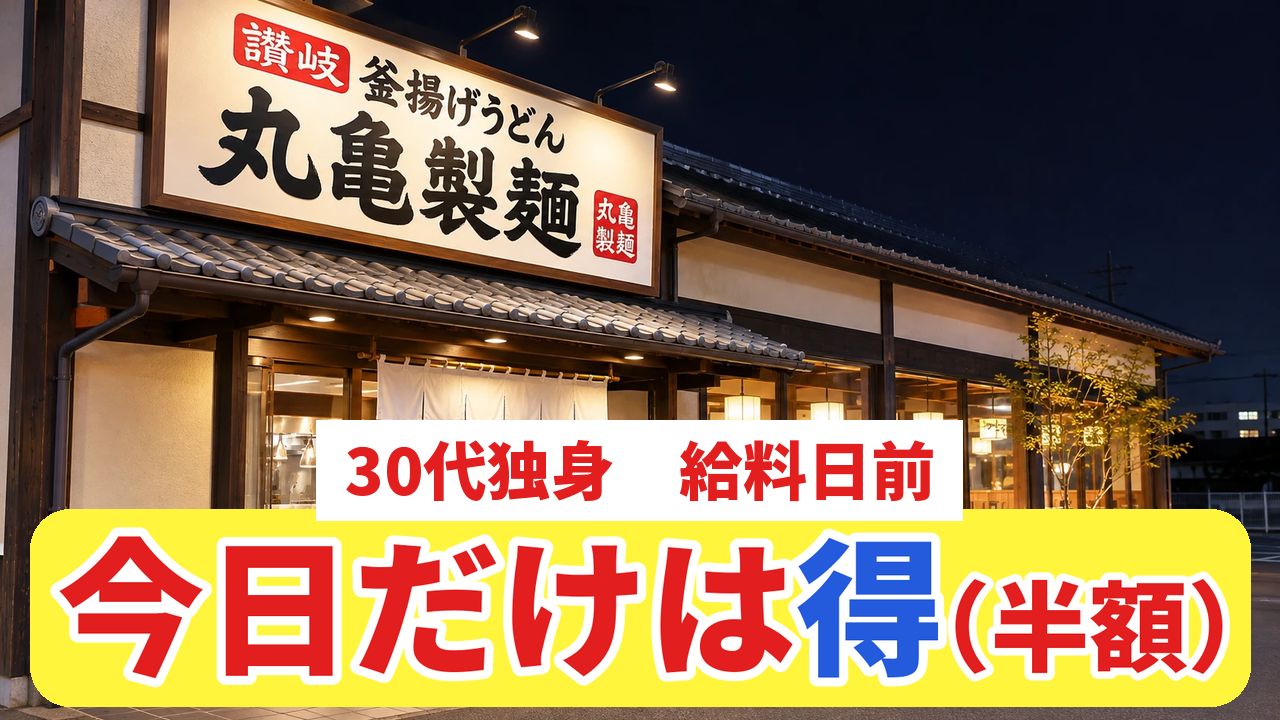
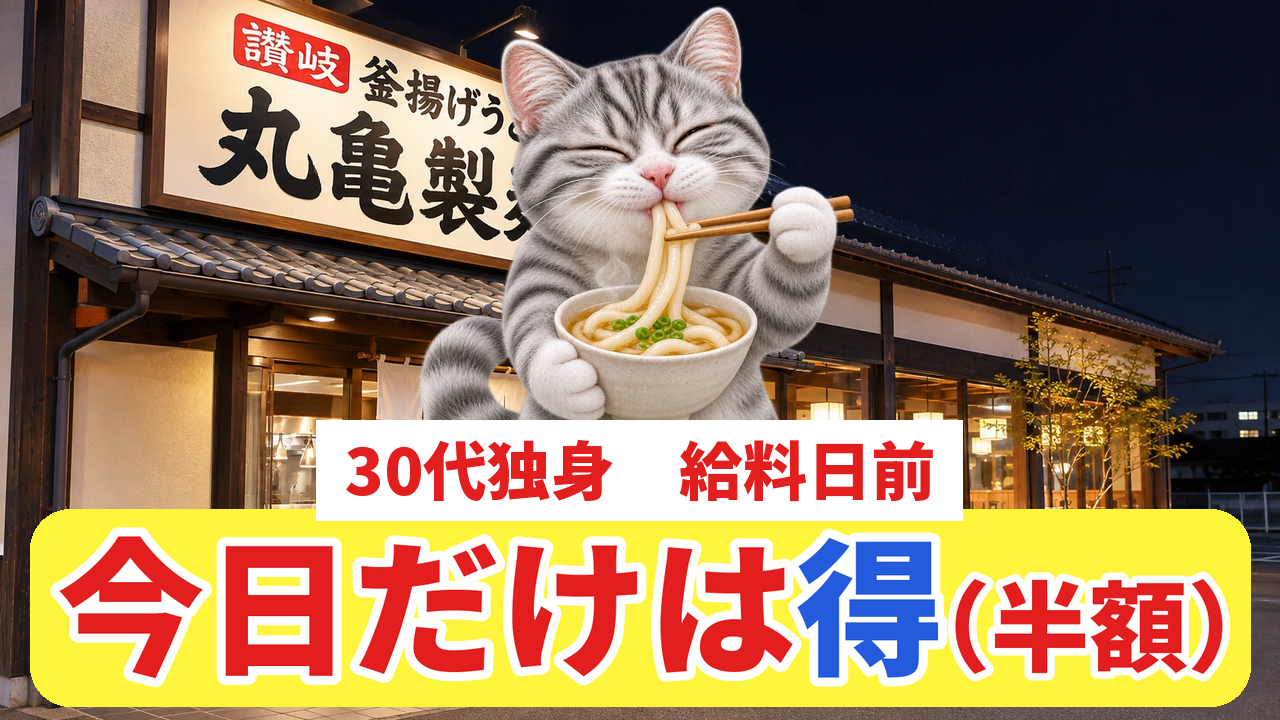
自堕落#28 丸亀 サムネ案3つ（うどん猫入り）
Claude-Session: https://claude.ai/code/session_011g9CsrfFD5YswfNSvNDW39

Changed region(s): [[0.3125, 0.0, 0.6875, 0.5806]]

diff --git a/catmeme/make_thumb_marugame.py b/catmeme/make_thumb_marugame.py
@@ -29,17 +29,17 @@ def one(name, big_runs, sub_runs=None, tag="30代独身　給料日前"):
         line = line.resize((int(line.width * k2), int(line.height * k2)), Image.LANCZOS)
     bh = line.height + 36
     by = T.H - bh - 14
-    if os.path.exists(CAT):
-        cat = Image.open(CAT).convert("RGBA")
-        cat = cat.crop((0, 0, cat.width, int(cat.height * 0.66)))   # 顔・うどん・どんぶりまで
-        k = 600 / cat.width
-        cat = cat.resize((600, int(cat.height * k)), Image.LANCZOS)
-        img.alpha_composite(cat, ((T.W - cat.width) // 2, max(0, by - cat.height + 40)))
-    ImageDraw.Draw(img).rounded_rectangle((30, by, T.W - 30, by + bh), 40, fill=(255, 245, 60, 255))
-    img.alpha_composite(line, ((T.W - line.width) // 2, by + 18))
     t = T.runs([(tag, (T.RED, T.WHITE))], 64, 2, 900)
     box = Image.new("RGBA", (t.width + 56, t.height + 34), T.WHITE + (255,))
     box.alpha_composite(t, (28, 17))
+    if os.path.exists(CAT):
+        cat = Image.open(CAT).convert("RGBA")
+        cat = cat.crop((0, 0, cat.width, int(cat.height * 0.65)))   # 顔・うどん・どんぶりまで（11/28 どんぶりが帯に隠れないように）
+        ch = by - box.height + 30
+        cat = cat.resize((int(cat.width * ch / cat.height), ch), Image.LANCZOS)
+        img.alpha_composite(cat, ((T.W - cat.width) // 2, by - box.height + 30 - ch))
+    ImageDraw.Draw(img).rounded_rectangle((30, by, T.W - 30, by + bh), 40, fill=(255, 245, 60, 255))
+    img.alpha_composite(line, ((T.W - line.width) // 2, by + 18))
     img.alpha_composite(box, ((T.W - box.width) // 2, by - box.height + 12))
     T.save(img, name)
 
